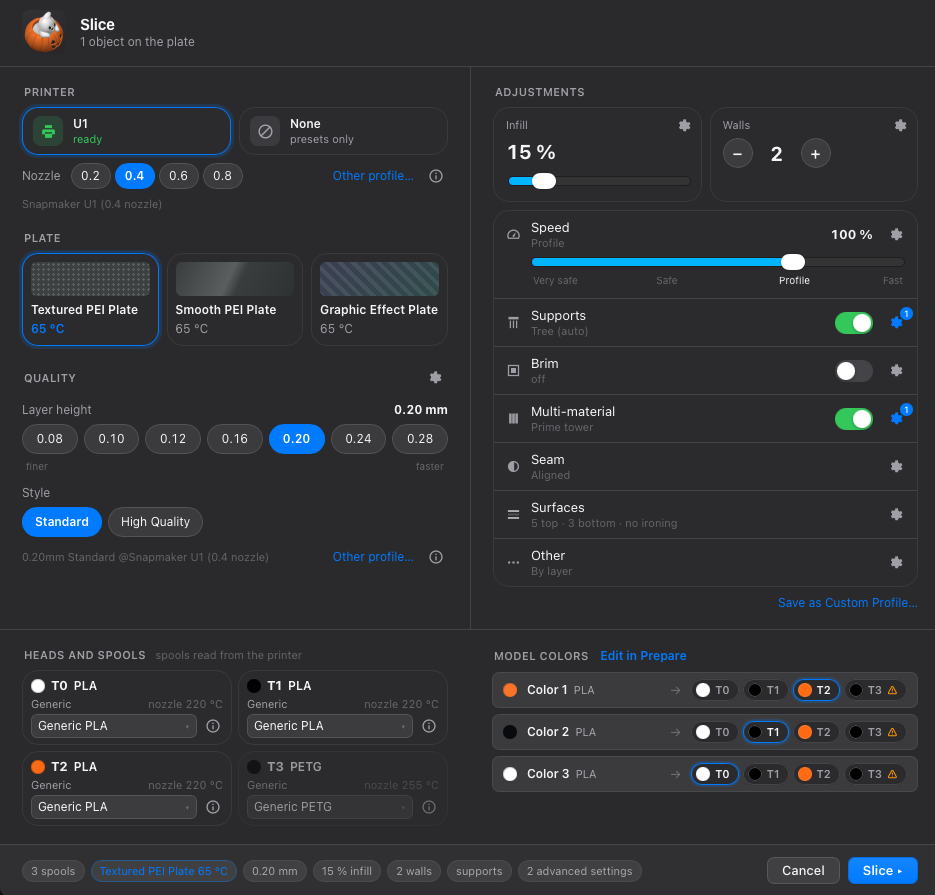
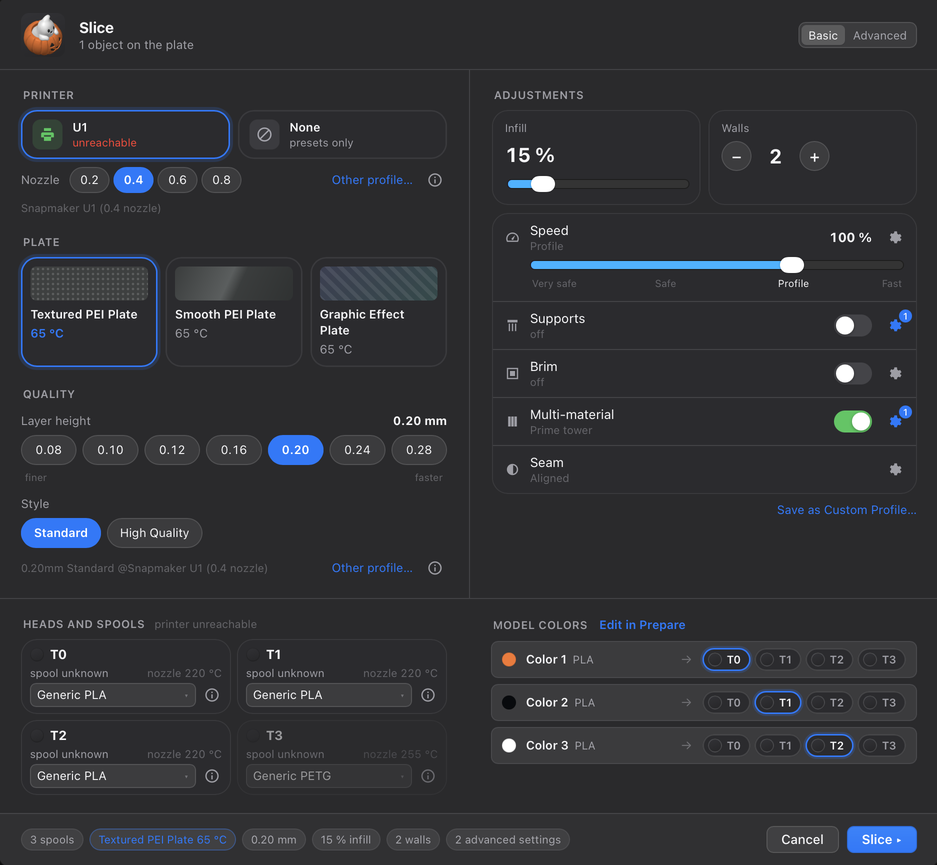
docs: Real Prepare and slice sheet screenshots for 0.16
prepare.png now shows Prepare with one prime tower per material (PLA on
T0 and T2, PETG on T3) and one head token per color; slicing.png the slice
sheet in Basic. The site's gallery, thumbnails and the 0.16 What's new
images (per-material towers, Basic / Advanced) use them instead of mockup
crops. The 0.15 and 0.14 What's new entries keep the single-tower picture,
moved to prime-tower.webp.

diff --git a/site/index.html b/site/index.html
@@ -100,10 +100,10 @@
             <figcaption><span class="g-cap" data-i18n="shots.files">Files: thumbnails of your 3MF files, duration, filament and plates</span></figcaption>
           </figure>
           <figure class="g-slide" role="group" aria-roledescription="slide" data-i18n-roledesc="gal.slide_role" aria-label="4 / 12" data-index="3" aria-hidden="true">
-            <button type="button" class="g-open" data-open="3" aria-label="Open fullscreen: Prepare: the U1 plate in 3D, each color sent to its head, and the prime tower" data-cap="shots.prepare" tabindex="-1">
-              <img src="assets/prepare.webp" alt="Prepare" data-i18n-alt="shots.prepare_alt" width="1400" height="1103" loading="lazy">
+            <button type="button" class="g-open" data-open="3" aria-label="Open fullscreen: Prepare: the U1 plate in 3D, each color sent to its head, and one prime tower per material" data-cap="shots.prepare" tabindex="-1">
+              <img src="assets/prepare.webp" alt="Prepare" data-i18n-alt="shots.prepare_alt" width="1400" height="914" loading="lazy">
             </button>
-            <figcaption><span class="g-cap" data-i18n="shots.prepare">Prepare: the U1 plate in 3D, each color sent to its head, and the prime tower</span></figcaption>
+            <figcaption><span class="g-cap" data-i18n="shots.prepare">Prepare: the U1 plate in 3D, each color sent to its head, and one prime tower per material</span></figcaption>
           </figure>
           <figure class="g-slide" role="group" aria-roledescription="slide" data-i18n-roledesc="gal.slide_role" aria-label="5 / 12" data-index="4" aria-hidden="true">
             <button type="button" class="g-open" data-open="4" aria-label="Open fullscreen: AI: Claude models a part, with a live 3D preview" data-cap="shots.ai-chat" tabindex="-1">
@@ -149,7 +149,7 @@
           </figure>
           <figure class="g-slide" role="group" aria-roledescription="slide" data-i18n-roledesc="gal.slide_role" aria-label="12 / 12" data-index="11" aria-hidden="true">
             <button type="button" class="g-open" data-open="11" aria-label="Open fullscreen: Slicing: plate, quality, heads and spools read from the printer" data-cap="shots.slicing" tabindex="-1">
-              <img src="assets/slicing.webp" alt="The slice sheet" data-i18n-alt="shots.slicing_alt" width="935" height="895" loading="lazy">
+              <img src="assets/slicing.webp" alt="The slice sheet" data-i18n-alt="shots.slicing_alt" width="937" height="865" loading="lazy">
             </button>
             <figcaption><span class="g-cap" data-i18n="shots.slicing">Slicing: plate, quality, heads and spools read from the printer</span></figcaption>
           </figure>
@@ -165,7 +165,7 @@
         <button type="button" class="g-thumb is-active" data-go="0" aria-label="Your printer in 3D: click a spool, a head, the bed or the light to control it" data-cap="shots.printer" aria-current="true"><img src="assets/thumbs/printer.webp" alt="" width="160" height="94" loading="lazy"></button>
         <button type="button" class="g-thumb" data-go="1" aria-label="Control: move, heat, load and unload each head, fans and light, without G-code" data-cap="shots.control"><img src="assets/thumbs/control.webp" alt="" width="160" height="94" loading="lazy"></button>
         <button type="button" class="g-thumb" data-go="2" aria-label="Files: thumbnails of your 3MF files, duration, filament and plates" data-cap="shots.files"><img src="assets/thumbs/files.webp" alt="" width="160" height="104" loading="lazy"></button>
-        <button type="button" class="g-thumb" data-go="3" aria-label="Prepare: the U1 plate in 3D, each color sent to its head, and the prime tower" data-cap="shots.prepare"><img src="assets/thumbs/prepare.webp" alt="" width="160" height="126" loading="lazy"></button>
+        <button type="button" class="g-thumb" data-go="3" aria-label="Prepare: the U1 plate in 3D, each color sent to its head, and one prime tower per material" data-cap="shots.prepare"><img src="assets/thumbs/prepare.webp" alt="" width="160" height="104" loading="lazy"></button>
         <button type="button" class="g-thumb" data-go="4" aria-label="AI: Claude models a part, with a live 3D preview" data-cap="shots.ai-chat"><img src="assets/thumbs/ai-chat.webp" alt="" width="160" height="104" loading="lazy"></button>
         <button type="button" class="g-thumb" data-go="5" aria-label="Camera: the printer&#x27;s camera, live" data-cap="shots.printer-camera"><img src="assets/thumbs/printer-camera.webp" alt="" width="160" height="94" loading="lazy"></button>
         <button type="button" class="g-thumb" data-go="6" aria-label="Prints: progress, temperatures, pause and cancel" data-cap="shots.print-job"><img src="assets/thumbs/print-job.webp" alt="" width="160" height="94" loading="lazy"></button>
@@ -173,7 +173,7 @@
         <button type="button" class="g-thumb" data-go="8" aria-label="Explore home: Space, Store, Wiki, Forum, Account, libraries and Store picks" data-cap="shots.library"><img src="assets/thumbs/library.webp" alt="" width="160" height="104" loading="lazy"></button>
         <button type="button" class="g-thumb" data-go="9" aria-label="Care &amp; Tuning: maintenance tasks, the heads&#x27; counters, the bed&#x27;s leveling" data-cap="shots.maintenance"><img src="assets/thumbs/maintenance.webp" alt="" width="160" height="104" loading="lazy"></button>
         <button type="button" class="g-thumb" data-go="10" aria-label="Display: light or dark, ten themes and the accent color" data-cap="shots.display"><img src="assets/thumbs/display.webp" alt="" width="160" height="104" loading="lazy"></button>
-        <button type="button" class="g-thumb" data-go="11" aria-label="Slicing: plate, quality, heads and spools read from the printer" data-cap="shots.slicing"><img src="assets/thumbs/slicing.webp" alt="" width="160" height="153" loading="lazy"></button>
+        <button type="button" class="g-thumb" data-go="11" aria-label="Slicing: plate, quality, heads and spools read from the printer" data-cap="shots.slicing"><img src="assets/thumbs/slicing.webp" alt="" width="160" height="148" loading="lazy"></button>
           <span class="g-ind" aria-hidden="true"></span>
         </div>
       </section>

diff --git a/site/i18n.js b/site/i18n.js
@@ -39,7 +39,7 @@ const STRINGS = {
     "gal.close": "Close",
     "shots.files": "Files: thumbnails of your 3MF files, duration, filament and plates",
     "shots.files_alt": "Snap Studio — your 3MF files at a glance",
-    "shots.prepare": "Prepare: the U1 plate in 3D, each color sent to its head, and the prime tower",
+    "shots.prepare": "Prepare: the U1 plate in 3D, each color sent to its head, and one prime tower per material",
     "shots.prepare_alt": "Prepare",
     "shots.ai-chat": "AI: Claude models a part, with a live 3D preview",
     "shots.ai-chat_alt": "An AI conversation",
@@ -139,7 +139,7 @@ const STRINGS = {
     "gal.close": "Fermer",
     "shots.files": "Fichiers : miniatures de vos 3MF, durée, filament et plateaux",
     "shots.files_alt": "Snap Studio — vos fichiers 3MF en un coup d'œil",
-    "shots.prepare": "Préparer : le plateau de la U1 en 3D, chaque couleur envoyée à sa tête, et la tour d'amorçage",
+    "shots.prepare": "Préparer : le plateau de la U1 en 3D, chaque couleur envoyée à sa tête, et une tour d'amorçage par matériau",
     "shots.prepare_alt": "Préparer",
     "shots.ai-chat": "IA : Claude modélise une pièce, avec un aperçu 3D en direct",
     "shots.ai-chat_alt": "Une conversation IA",

diff --git a/README.fr.md b/README.fr.md
@@ -82,7 +82,7 @@ Vos fichiers 3MF en un coup d'œil.
 
 ### 🧩 Préparer
 
-<img align="right" width="48%" hspace="12" src="docs/screenshots/prepare.png" alt="Préparer : un modèle sur le plateau, ses couleurs envoyées aux têtes, et la tour d'amorçage" />
+<img align="right" width="48%" hspace="12" src="docs/screenshots/prepare.png" alt="Préparer : un modèle sur le plateau, chaque couleur envoyée à sa tête, et une tour d'amorçage par matériau" />
 
 Le plateau U1 comme dans Orca — puis découper.
 
@@ -126,7 +126,7 @@ Claude modifie une pièce ou en crée une à partir d'une description.
 
 ### ✂ Découpe
 
-<img align="right" width="40%" hspace="12" src="docs/screenshots/slicing.png" alt="La fenêtre de découpe" />
+<img align="right" width="40%" hspace="12" src="docs/screenshots/slicing.png" alt="La fenêtre de découpe, en Essentiel" />
 
 Le moteur Snapmaker Orca, intégré : inutile d'installer Snapmaker Orca.
 

diff --git a/README.md b/README.md
@@ -73,7 +73,7 @@ Your 3MF files at a glance.
 
 ### 🧩 Prepare
 
-<img align="right" width="48%" hspace="12" src="docs/screenshots/prepare.png" alt="Prepare: a model on the plate, its colors sent to the heads, and the prime tower" />
+<img align="right" width="48%" hspace="12" src="docs/screenshots/prepare.png" alt="Prepare: a model on the plate, each color sent to its head, and one prime tower per material" />
 
 The U1 plate as in Orca — then slice.
 
@@ -113,7 +113,7 @@ Claude modifies a part or creates one from a description.
 
 ### ✂ Slicing
 
-<img align="right" width="40%" hspace="12" src="docs/screenshots/slicing.png" alt="The slice sheet" />
+<img align="right" width="40%" hspace="12" src="docs/screenshots/slicing.png" alt="The slice sheet, in Basic" />
 
 The Snapmaker Orca engine, built in: you do not need Snapmaker Orca installed.
 
